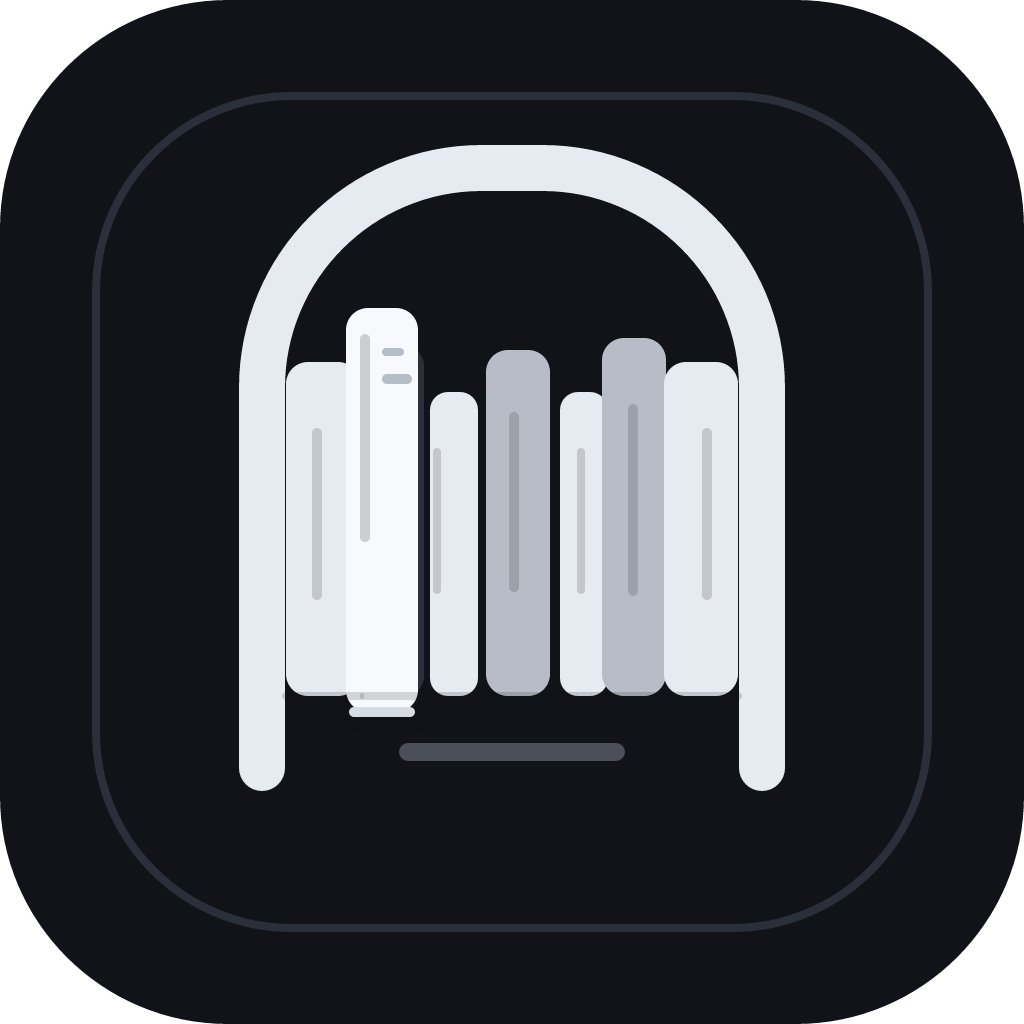
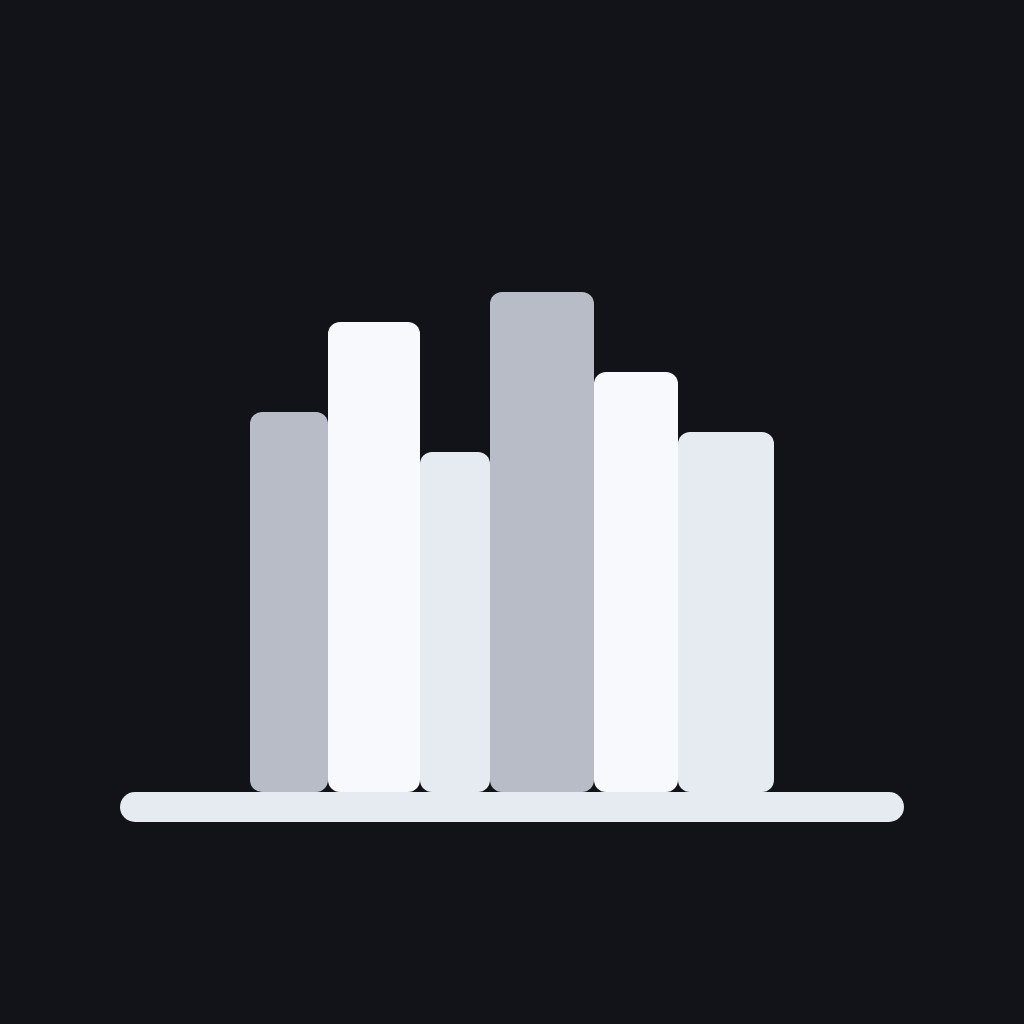
アプリアイコンを 1 つのベクター定義から全プラットフォーム分生成する
iOS / Android / Web / Electrobun でアイコンの見た目がずれていたため、
Spine Row の図案を scripts/buildIcons.ts に集約し、Chromium で描画して
各サイズを書き出す。bun run icons で再生成でき、出力は冪等。

- Android の adaptive icon（前景・単色）とスプラッシュの背景色を図案に合わせる
- Electrobun の mac（iconset）・win（ico）・linux（png）のアイコンを指定する

diff --git a/scripts/buildIcons.ts b/scripts/buildIcons.ts
@@ -1,0 +1,233 @@
+#!/usr/bin/env bun
+/**
+ * Generates every app icon asset from one vector definition.
+ *
+ * Run: bun run icons
+ *
+ * Output:
+ *   assets/images/app-icon-source.svg        vector master (full-bleed square)
+ *   assets/images/app-icon.png               iOS / Expo (1024, opaque)
+ *   assets/images/app-icon-web.png           web favicon
+ *   assets/images/adaptive-icon-foreground.png  Android adaptive foreground
+ *   assets/images/adaptive-icon-monochrome.png  Android 13+ themed icon layer
+ *   assets/images/splash-logo-all.png        splash screen (1242x2436)
+ *   assets/icons/icon.png                    Electrobun / Linux
+ *   assets/icons/icon.ico                    Electrobun / Windows
+ *   assets/icons/icon.iconset/*.png          Electrobun / macOS (.icns source)
+ *
+ * The artwork is "Spine Row": six book spines packed edge to edge on one shelf
+ * board. Rendered through Chromium so the committed assets and the source SVG
+ * stay byte-for-byte identical in shape.
+ */
+import { chromium } from "playwright"
+import * as fs from "node:fs"
+import * as path from "node:path"
+
+const BG = "#111318"
+const INK_HI = "#F7F9FC"
+const INK_MID = "#E6EAF1"
+const INK_LOW = "#B7BCC7"
+
+type Book = { x: number; w: number; y: number; h: number; fill: string }
+
+/** Spines sit edge to edge: each x starts where the previous one ends. */
+const BOOKS: Book[] = [
+  { x: 250, w: 78, y: 412, h: 380, fill: INK_LOW },
+  { x: 328, w: 92, y: 322, h: 470, fill: INK_HI },
+  { x: 420, w: 70, y: 452, h: 340, fill: INK_MID },
+  { x: 490, w: 104, y: 292, h: 500, fill: INK_LOW },
+  { x: 594, w: 84, y: 372, h: 420, fill: INK_HI },
+  { x: 678, w: 96, y: 432, h: 360, fill: INK_MID },
+]
+const SHELF = { x: 120, y: 792, w: 784, h: 30, r: 15 }
+
+/** Bounds of the shelf and spines, used to place the mark on the splash. */
+const ART_BOX = { x: 120, y: 292, w: 784, h: 530 }
+
+/** The monochrome layer is alpha-only, so adjacent spines need a visible gap. */
+const MONO_GAP = 7
+
+const artwork = (mono: boolean): string => {
+  const book = (b: Book): string =>
+    mono
+      ? `<rect x="${b.x + MONO_GAP}" y="${b.y}" width="${b.w - MONO_GAP * 2}" height="${
+          b.h
+        }" rx="12" fill="#FFFFFF"/>`
+      : `<rect x="${b.x}" y="${b.y}" width="${b.w}" height="${b.h}" rx="12" fill="${b.fill}"/>`
+
+  return [
+    `<rect x="${SHELF.x}" y="${SHELF.y}" width="${SHELF.w}" height="${SHELF.h}" rx="${
+      SHELF.r
+    }" fill="${mono ? "#FFFFFF" : INK_MID}"/>`,
+    ...BOOKS.map(book),
+  ].join("\n    ")
+}
+
+type Frame = "square" | "rounded" | "none"
+
+/** macOS-style icon: 824 rounded square centred in a 1024 canvas. */
+const ROUNDED = { inset: 100, size: 824, radius: 185 }
+
+const svg = (opts: {
+  size: number
+  frame: Frame
+  scale?: number
+  mono?: boolean
+}): string => {
+  const { size, frame, scale = 1, mono = false } = opts
+  const transform = `translate(512 512) scale(${scale}) translate(-512 -512)`
+  const frameShape =
+    frame === "square"
+      ? `<rect width="1024" height="1024" fill="${BG}"/>`
+      : frame === "rounded"
+        ? `<rect x="${ROUNDED.inset}" y="${ROUNDED.inset}" width="${ROUNDED.size}" height="${ROUNDED.size}" rx="${ROUNDED.radius}" fill="${BG}"/>`
+        : ""
+
+  return [
+    `<svg xmlns="http://www.w3.org/2000/svg" width="${size}" height="${size}" viewBox="0 0 1024 1024">`,
+    frameShape ? `  ${frameShape}` : null,
+    `  <g transform="${transform}">`,
+    `    ${artwork(mono)}`,
+    "  </g>",
+    "</svg>",
+  ]
+    .filter(Boolean)
+    .join("\n")
+}
+
+const ROOT = process.cwd()
+const write = (file: string, data: Buffer | string): void => {
+  const full = path.resolve(ROOT, file)
+  fs.mkdirSync(path.dirname(full), { recursive: true })
+  fs.writeFileSync(full, data)
+  console.log(`  ${file.padEnd(46)} ${data.length}B`)
+}
+
+/** PNG-in-ICO container: works for every size Windows Vista and later needs. */
+const ico = (images: { size: number; data: Buffer }[]): Buffer => {
+  const header = Buffer.alloc(6)
+  header.writeUInt16LE(0, 0)
+  header.writeUInt16LE(1, 2)
+  header.writeUInt16LE(images.length, 4)
+
+  let offset = 6 + 16 * images.length
+  const entries = images.map(({ size, data }) => {
+    const entry = Buffer.alloc(16)
+    entry.writeUInt8(size >= 256 ? 0 : size, 0)
+    entry.writeUInt8(size >= 256 ? 0 : size, 1)
+    entry.writeUInt8(0, 2)
+    entry.writeUInt8(0, 3)
+    entry.writeUInt16LE(1, 4)
+    entry.writeUInt16LE(32, 6)
+    entry.writeUInt32LE(data.length, 8)
+    entry.writeUInt32LE(offset, 12)
+    offset += data.length
+    return entry
+  })
+
+  return Buffer.concat([header, ...entries, ...images.map((i) => i.data)])
+}
+
+const browser = await chromium.launch()
+const page = await browser.newPage({
+  viewport: { width: 1024, height: 1024 },
+  deviceScaleFactor: 1,
+})
+
+const render = async (markup: string, size: number): Promise<Buffer> => {
+  await page.setContent(
+    `<!doctype html><html><head><meta charset="utf-8"><style>html,body{margin:0;padding:0;background:transparent}svg{display:block}</style></head><body>${markup}</body></html>`,
+    { waitUntil: "load" },
+  )
+  return page.screenshot({
+    omitBackground: true,
+    clip: { x: 0, y: 0, width: size, height: size },
+  })
+}
+
+/** Full-page render used for the splash, where the canvas is portrait. */
+const renderPage = async (html: string, width: number, height: number): Promise<Buffer> => {
+  await page.setViewportSize({ width, height })
+  await page.setContent(html, { waitUntil: "load" })
+  await page.evaluate(() => document.fonts.ready)
+  const png = await page.screenshot({ clip: { x: 0, y: 0, width, height } })
+  await page.setViewportSize({ width: 1024, height: 1024 })
+  return png
+}
+
+console.log("Rendering icons")
+
+const master = svg({ size: 1024, frame: "square" })
+write("assets/images/app-icon-source.svg", `${master}\n`)
+write("assets/images/app-icon.png", await render(master, 1024))
+write("assets/images/app-icon-web.png", await render(svg({ size: 128, frame: "square" }), 128))
+
+const adaptive = svg({ size: 1024, frame: "none", scale: 0.68 })
+write("assets/images/adaptive-icon-foreground.png", await render(adaptive, 1024))
+write(
+  "assets/images/adaptive-icon-monochrome.png",
+  await render(svg({ size: 1024, frame: "none", scale: 0.68, mono: true }), 1024),
+)
+
+const rounded = (size: number): string => svg({ size, frame: "rounded", scale: 0.85 })
+
+write("assets/icons/icon.png", await render(rounded(1024), 1024))
+
+const icoImages: { size: number; data: Buffer }[] = []
+for (const size of [16, 24, 32, 48, 64, 128, 256]) {
+  icoImages.push({ size, data: await render(rounded(size), size) })
+}
+write("assets/icons/icon.ico", ico(icoImages))
+
+const iconset: [string, number][] = [
+  ["icon_16x16.png", 16],
+  ["icon_16x16@2x.png", 32],
+  ["icon_32x32.png", 32],
+  ["icon_32x32@2x.png", 64],
+  ["icon_128x128.png", 128],
+  ["icon_128x128@2x.png", 256],
+  ["icon_256x256.png", 256],
+  ["icon_256x256@2x.png", 512],
+  ["icon_512x512.png", 512],
+  ["icon_512x512@2x.png", 1024],
+]
+for (const [name, size] of iconset) {
+  write(`assets/icons/icon.iconset/${name}`, await render(rounded(size), size))
+}
+
+// Splash: the same mark on a portrait canvas, with the wordmark underneath.
+const SPLASH = { width: 1242, height: 2436, markWidth: 560, markCenterY: 1120, baselineY: 1520 }
+const splashScale = SPLASH.markWidth / ART_BOX.w
+const artCenterX = ART_BOX.x + ART_BOX.w / 2
+const artCenterY = ART_BOX.y + ART_BOX.h / 2
+const wordmarkFont = fs
+  .readFileSync(
+    path.resolve(ROOT, "node_modules/@expo-google-fonts/space-grotesk/SpaceGrotesk_700Bold.ttf"),
+  )
+  .toString("base64")
+
+const splash = [
+  `<svg xmlns="http://www.w3.org/2000/svg" width="${SPLASH.width}" height="${SPLASH.height}" viewBox="0 0 ${SPLASH.width} ${SPLASH.height}">`,
+  `  <rect width="${SPLASH.width}" height="${SPLASH.height}" fill="${BG}"/>`,
+  `  <g transform="translate(${SPLASH.width / 2} ${
+    SPLASH.markCenterY
+  }) scale(${splashScale}) translate(${-artCenterX} ${-artCenterY})">`,
+  `    ${artwork(false)}`,
+  "  </g>",
+  `  <text x="${SPLASH.width / 2}" y="${
+    SPLASH.baselineY
+  }" text-anchor="middle" font-family="Space Grotesk" font-weight="700" font-size="64" letter-spacing="8" fill="${INK_LOW}">Open BookShelf</text>`,
+  "</svg>",
+].join("\n")
+
+write(
+  "assets/images/splash-logo-all.png",
+  await renderPage(
+    `<!doctype html><html><head><meta charset="utf-8"><style>@font-face{font-family:"Space Grotesk";src:url(data:font/ttf;base64,${wordmarkFont}) format("truetype");font-weight:700;font-style:normal}html,body{margin:0;padding:0;background:${BG}}svg{display:block}</style></head><body>${splash}</body></html>`,
+    SPLASH.width,
+    SPLASH.height,
+  ),
+)
+
+await browser.close()
+console.log("Done")

diff --git a/electrobun.config.ts b/electrobun.config.ts
@@ -20,6 +20,19 @@ export default {
     copy: {
       dist: "views/app",
     },
+    // アイコンは `bun run icons` が scripts/buildIcons.ts から生成する
+    mac: {
+      // iconutil が .iconset を .icns に変換する（macOS ランナーのみ）
+      icons: "assets/icons/icon.iconset",
+    },
+    win: {
+      // Hutch が PNG/ICO をインストーラ・ショートカット・タスクバー用に使う
+      icon: "assets/icons/icon.ico",
+    },
+    linux: {
+      // デスクトップエントリ・ウィンドウ・タスクバー用
+      icon: "assets/icons/icon.png",
+    },
   },
   release: {
     // canary は手動 CI と v* タグ CI の両方がこの固定タグ Release に成果物を上書きする

diff --git a/app.config.ts b/app.config.ts
@@ -38,7 +38,7 @@ module.exports = {
     splash: {
       image: "./assets/images/splash-logo-all.png",
       resizeMode: "contain",
-      backgroundColor: "#191015",
+      backgroundColor: "#111318",
     },
     updates: {
       fallbackToCacheTimeout: 0,
@@ -51,6 +51,11 @@ module.exports = {
     assetBundlePatterns: ["**/*"],
     android: {
       package: `com.openbookshelf${idSuffix}`,
+      adaptiveIcon: {
+        foregroundImage: "./assets/images/adaptive-icon-foreground.png",
+        backgroundColor: "#111318",
+        monochromeImage: "./assets/images/adaptive-icon-monochrome.png",
+      },
     },
     ios: {
       icon: "./assets/images/app-icon.png",
